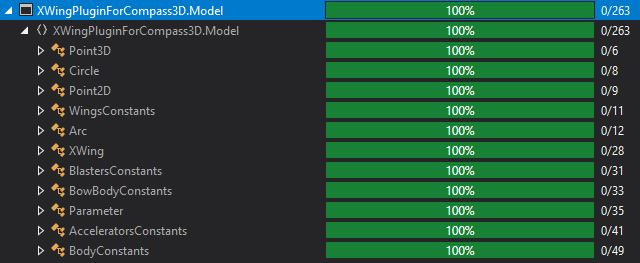
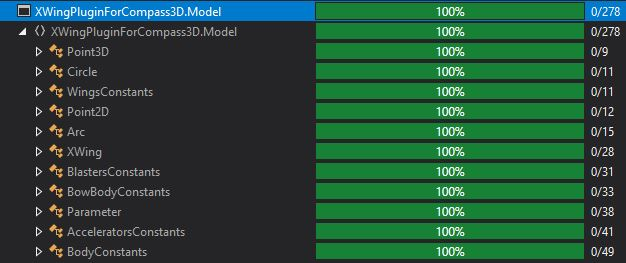
Поправлены тесты для классов XWing и Parameter, везде добавлены и проверены комментарии.

diff --git a/src/XWingPluginForCompass3D/XWingPluginForCompass3D.UnitTests/CheckingObjectEquality.cs b/src/XWingPluginForCompass3D/XWingPluginForCompass3D.UnitTests/CheckingObjectEquality.cs
@@ -1,12 +1,21 @@
-using System.Collections.Generic;
-using XWingPluginForCompass3D.Model;
+using XWingPluginForCompass3D.Model;
 
 namespace XWingPluginForCompass3D.UnitTests
 {
-	// TODO: XML
-	// TODO: для класса Point2D можно реализовать интерфейс IEquatable  ИСПРАВИЛ
-	public class CheckingObjectEquality
+    /// <summary>
+    /// Класс проверки равенства объектов класса.
+    /// </summary>
+    // TODO: XML    ИСПРАВИЛ
+    // TODO: для класса Point2D можно реализовать интерфейс IEquatable  ИСПРАВИЛ
+    public class CheckingObjectEquality
     {
+        /// <summary>
+        /// Сравнение трехмерных массивов класса Point2D.
+        /// </summary>
+        /// <param name="expected">Сравниваемый объект.</param>
+        /// <param name="actual">Текущий объект.</param>
+        /// <returns>Возвращает true, если элементы равны,
+        /// false - в обратном случае.</returns>
         public bool CheckEqual(Point2D[,,] expected, Point2D[,,] actual)
         {
             for (var i = 0; i < expected.GetLength(0); i++)
@@ -26,6 +35,13 @@ namespace XWingPluginForCompass3D.UnitTests
             return true;
         }
 
+        /// <summary>
+        /// Сравнение одномерных массивов класса Point3D.
+        /// </summary>
+        /// <param name="expected">Сравниваемый объект.</param>
+        /// <param name="actual">Текущий объект.</param>
+        /// <returns>Возвращает true, если элементы равны,
+        /// false - в обратном случае.</returns>
         public bool CheckEqual(Point3D[] expected, Point3D[] actual)
         {
             for (var i = 0; i < expected.GetLength(0); i++)
@@ -38,14 +54,21 @@ namespace XWingPluginForCompass3D.UnitTests
 
             return true;
         }
-        
-        public bool CheckEqual(Circle[,] excepted, Circle[,] actual)
+
+        /// <summary>
+        /// Сравнение двумерных массивов класса Circle.
+        /// </summary>
+        /// <param name="expected">Сравниваемый объект.</param>
+        /// <param name="actual">Текущий объект.</param>
+        /// <returns>Возвращает true, если элементы равны,
+        /// false - в обратном случае.</returns>
+        public bool CheckEqual(Circle[,] expected, Circle[,] actual)
         {
-            for (var i = 0; i < excepted.GetLength(0); i++)
+            for (var i = 0; i < expected.GetLength(0); i++)
             {
-                for (var j = 0; j < excepted.GetLength(1); j++)
+                for (var j = 0; j < expected.GetLength(1); j++)
                 {
-                    if (!actual[i, j].Equals(excepted[i, j]))
+                    if (!actual[i, j].Equals(expected[i, j]))
                     {
                         return false;
                     }
@@ -55,30 +78,23 @@ namespace XWingPluginForCompass3D.UnitTests
             return true;
         }
 
-        public bool CheckEqual(Arc[,] excepted, Arc[,] actual)
+        /// <summary>
+        /// Сравнение двумерных массивов класса Arc.
+        /// </summary>
+        /// <param name="expected">Сравниваемый объект.</param>
+        /// <param name="actual">Текущий объект.</param>
+        /// <returns>Возвращает true, если элементы равны,
+        /// false - в обратном случае.</returns>
+        public bool CheckEqual(Arc[,] expected, Arc[,] actual)
         {
-            for (var i = 0; i < excepted.GetLength(0); i++)
+            for (var i = 0; i < expected.GetLength(0); i++)
             {
-                for (var j = 0; j < excepted.GetLength(1); j++)
+                for (var j = 0; j < expected.GetLength(1); j++)
                 {
-                    if (!actual[i, j].Equals(excepted[i, j]))
+                    if (!actual[i, j].Equals(expected[i, j]))
                     {
                         return false;
                     }
-                }
-            }
-
-            return true;
-        }
-
-        public bool CheckEqual(Dictionary<XWingParameterType, Parameter> excepted, 
-            Dictionary<XWingParameterType, Parameter> actual)
-        {
-            foreach (var key in excepted.Keys)
-            {
-                if (excepted[key].Value != actual[key].Value)
-                {
-                    return false;
                 }
             }
 

diff --git a/src/XWingPluginForCompass3D/XWingPluginForCompass3D.UnitTests/TestXWing.cs b/src/XWingPluginForCompass3D/XWingPluginForCompass3D.UnitTests/TestXWing.cs
@@ -4,12 +4,21 @@ using System.Collections.Generic;
 
 namespace XWingPluginForCompass3D.UnitTests
 {
+    /// <summary>
+    /// Класс тестирования полей класса звездолета.
+    /// </summary>
     [TestFixture]
     public class TestXWing
     {
+        /// <summary>
+        /// Объект класса звездолета.
+        /// </summary>
         private readonly XWing _xWing = new XWing();
-        
-        [Test(Description = "Позитивный тест геттера ErrorList")]
+
+        /// <summary>
+        /// Позитивный тест геттера ErrorList.
+        /// </summary>
+        [Test(Description = "Позитивный тест геттера ErrorList.")]
         public void TestErrorListGet_CorrectValue()
         {
             var expected = new Dictionary<XWingParameterType, string>();
@@ -17,10 +26,12 @@ namespace XWingPluginForCompass3D.UnitTests
             Assert.AreEqual(expected,actual);
         }
 
-        [Test(Description = "Позитивный тест геттера Parameters")]
+        /// <summary>
+        /// Позитивный тест геттера Parameters.
+        /// </summary>
+        [Test(Description = "Позитивный тест геттера Parameters.")]
         public void TestParametersGet_CorrectValue()
         {
-            var check = new CheckingObjectEquality();
             var expected = new Dictionary<XWingParameterType, Parameter>()
             {
                 { XWingParameterType.BodyLength,
@@ -43,10 +54,13 @@ namespace XWingPluginForCompass3D.UnitTests
                         XWingParameterType.AcceleratorNozzleLength, _xWing.ErrorList)},
             };
             var actual = _xWing.Parameters;
-            Assert.IsTrue(check.CheckEqual(expected, actual));
+            Assert.AreEqual(expected, actual);
         }
 
-        [Test(Description = "Позитивный тест геттера ErrorList")]
+        /// <summary>
+        /// Позитивный тест сеттера Parameters.
+        /// </summary>
+        [Test(Description = "Позитивный тест сеттера Parameters.")]
         public void TestParametersSet_CorrectValue()
         {
             const double bodyLength = 300;
@@ -62,7 +76,10 @@ namespace XWingPluginForCompass3D.UnitTests
             Assert.AreEqual(expected, actual);
         }
 
-        [Test(Description = "Негативный тест геттера ErrorList")]
+        /// <summary>
+        /// Негативный тест сеттера Parameters.
+        /// </summary>
+        [Test(Description = "Негативный тест сеттера Parameters.")]
         public void TestParametersSet_IncorrectValue()
         {
             const double bodyLength = 400;

diff --git a/src/XWingPluginForCompass3D/XWingPluginForCompass3D.UnitTests/TestArc.cs b/src/XWingPluginForCompass3D/XWingPluginForCompass3D.UnitTests/TestArc.cs
@@ -3,11 +3,17 @@ using NUnit.Framework;
 
 namespace XWingPluginForCompass3D.UnitTests
 {
+    /// <summary>
+    /// Класс тестирования полей класса дуги.
+    /// </summary>
     [TestFixture]
-    // TODO: XML
+    // TODO: XML    ИСПРАВИЛ
     public class TestArc
     {
-        [Test(Description = "Позитивный тест геттера StartPoint")]
+        /// <summary>
+        /// Позитивный тест геттера StartPoint.
+        /// </summary>
+        [Test(Description = "Позитивный тест геттера StartPoint.")]
         public void TestStartPointGet_CorrectValue()
         {
             var value = new Point2D(-5,0);
@@ -17,7 +23,10 @@ namespace XWingPluginForCompass3D.UnitTests
             Assert.AreEqual(value, actual);
         }
 
-        [Test(Description = "Позитивный тест геттера EndPoint")]
+        /// <summary>
+        /// Позитивный тест геттера EndPoint.
+        /// </summary>
+        [Test(Description = "Позитивный тест геттера EndPoint.")]
         public void TestEndPointGet_CorrectValue()
         {
             var value = new Point2D(5, 0);
@@ -27,10 +36,13 @@ namespace XWingPluginForCompass3D.UnitTests
             Assert.AreEqual(value, actual);
         }
 
-        [Test(Description = "Позитивный тест геттера Direction")]
+        /// <summary>
+        /// Позитивный тест геттера Direction.
+        /// </summary>
+        [Test(Description = "Позитивный тест геттера Direction.")]
         public void TestDirectionGet_CorrectValue()
         {
-            short value = 1;
+            const short value = 1;
             var arc = new Arc(new Point2D(0, 0), 5,
                 new Point2D(-5, 0), new Point2D(5, 0), value);
             var actual = arc.Direction;

diff --git a/src/XWingPluginForCompass3D/XWingPluginForCompass3D.UnitTests/TestParameter.cs b/src/XWingPluginForCompass3D/XWingPluginForCompass3D.UnitTests/TestParameter.cs
@@ -4,11 +4,16 @@ using NUnit.Framework;
 
 namespace XWingPluginForCompass3D.UnitTests
 {
+    /// <summary>
+    /// Класс тестирования полей класса параметра.
+    /// </summary>
     [TestFixture]
     public class TestParameter
     {
-
-        [Test(Description = "Позитивный тест геттера Value")]
+        /// <summary>
+        /// Позитивный тест геттера Value.
+        /// </summary>
+        [Test(Description = "Позитивный тест геттера Value.")]
         public void TestValueGet_CorrectValue()
         {
             var parameter = new Parameter(10, 1, 20,
@@ -19,7 +24,10 @@ namespace XWingPluginForCompass3D.UnitTests
             Assert.AreEqual(expected, actual);
         }
 
-        [Test(Description = "Негативный тест геттера Value, Value < MinValue")]
+        /// <summary>
+        /// Негативный тест геттера Value, когда Value < MinValue.
+        /// </summary>
+        [Test(Description = "Негативный тест геттера Value, когда Value < MinValue.")]
         public void TestValueMixValueGet_IncorrectValue()
         {
             var parameter = new Parameter(-10, 1, 20,
@@ -30,7 +38,10 @@ namespace XWingPluginForCompass3D.UnitTests
             Assert.AreEqual(expected, actual);
         }
 
-        [Test(Description = "Негативный тест геттера Value, Value < MinValue")]
+        /// <summary>
+        /// Негативный тест геттера Value, когда Value > MaxValue.
+        /// </summary>
+        [Test(Description = "Негативный тест геттера Value, когда Value > MaxValue.")]
         public void TestValueMaxValueGet_IncorrectValue()
         {
             var parameter = new Parameter(25, 1, 20,

diff --git a/src/XWingPluginForCompass3D/XWingPluginForCompass3D.Model/Parameter.cs b/src/XWingPluginForCompass3D/XWingPluginForCompass3D.Model/Parameter.cs
@@ -1,11 +1,12 @@
-using System.Collections.Generic;
+using System;
+using System.Collections.Generic;
 
 namespace XWingPluginForCompass3D.Model
 {
     /// <summary>
     /// Класс параметра.
     /// </summary>
-    public class Parameter
+    public class Parameter: IEquatable<Parameter>
     {
         /// <summary>
         /// Значение параметра.
@@ -113,6 +114,24 @@ namespace XWingPluginForCompass3D.Model
             if (!(value > MaxValue)) return true;
             ErrorList.Add(ParameterType, MaxErrorMessage);
             return false;
+        }
+
+        /// <summary>
+        /// Проверка на равенство объектов класса.
+        /// </summary>
+        /// <param name="expected">Сравниваемый объект.</param>
+        /// <returns>Возвращает true, если элементы равны,
+        /// false - в обратном случае.</returns>
+        public bool Equals(Parameter expected)
+        {
+            return expected != null &&
+                   expected.Value.Equals(Value) &&
+                   expected.MinValue.Equals(MinValue) &&
+                   expected.MaxValue.Equals(MaxValue) &&
+                   expected.MinErrorMessage.Equals(MinErrorMessage) &&
+                   expected.MaxErrorMessage.Equals(MaxErrorMessage) &&
+                   expected.ErrorList.Equals(ErrorList) &&
+                   expected.ParameterType.Equals(ParameterType);
         }
     }
 }

diff --git a/src/XWingPluginForCompass3D/XWingPluginForCompass3D.UnitTests/TestCircle.cs b/src/XWingPluginForCompass3D/XWingPluginForCompass3D.UnitTests/TestCircle.cs
@@ -3,10 +3,16 @@ using NUnit.Framework;
 
 namespace XWingPluginForCompass3D.UnitTests
 {
+    /// <summary>
+    /// Класс тестирования полей класса круга.
+    /// </summary>
     [TestFixture]
     public class TestCircle
     {
-        [Test(Description = "Позитивный тест геттера Center")]
+        /// <summary>
+        /// Позитивный тест геттера Center.
+        /// </summary>
+        [Test(Description = "Позитивный тест геттера Center.")]
         public void TestCenterGet_CorrectValue()
         {
             var value = new Point2D(0, 0);
@@ -15,7 +21,10 @@ namespace XWingPluginForCompass3D.UnitTests
             Assert.AreEqual(value,actual);
         }
 
-        [Test(Description = "Позитивный тест геттера Radius")]
+        /// <summary>
+        /// Позитивный тест геттера Radius.
+        /// </summary>
+        [Test(Description = "Позитивный тест геттера Radius.")]
         public void TestRadiusGet_CorrectValue()
         {
             const int value = 10;

diff --git a/src/XWingPluginForCompass3D/XWingPluginForCompass3D.UnitTests/TestPoint2D.cs b/src/XWingPluginForCompass3D/XWingPluginForCompass3D.UnitTests/TestPoint2D.cs
@@ -3,10 +3,16 @@ using NUnit.Framework;
 
 namespace XWingPluginForCompass3D.UnitTests
 {
+    /// <summary>
+    /// Класс тестирования полей класса 2D-точки.
+    /// </summary>
     [TestFixture]
     public class TestPoint2D
     {
-        [Test(Description = "Позитивный тест геттера X")]
+        /// <summary>
+        /// Позитивный тест геттера X.
+        /// </summary>
+        [Test(Description = "Позитивный тест геттера X.")]
         public void TestXGet_CorrectValue()
         {
             const int value = 10;
@@ -15,7 +21,10 @@ namespace XWingPluginForCompass3D.UnitTests
             Assert.AreEqual(value,actual);
         }
 
-        [Test(Description = "Позитивный тест геттера Y")]
+        /// <summary>
+        /// Позитивный тест геттера Y.
+        /// </summary>
+        [Test(Description = "Позитивный тест геттера Y.")]
         public void TestYGet_CorrectValue()
         {
             const int value = 10;

diff --git a/src/XWingPluginForCompass3D/XWingPluginForCompass3D.UnitTests/TestPoint3D.cs b/src/XWingPluginForCompass3D/XWingPluginForCompass3D.UnitTests/TestPoint3D.cs
@@ -3,10 +3,16 @@ using NUnit.Framework;
 
 namespace XWingPluginForCompass3D.UnitTests
 {
+    /// <summary>
+    /// Класс тестирования полей класса 3D-точки.
+    /// </summary>
     [TestFixture]
     public class TestPoint3D
     {
-        [Test(Description = "Позитивный тест геттера Z")]
+        /// <summary>
+        /// Позитивный тест геттера Z.
+        /// </summary>
+        [Test(Description = "Позитивный тест геттера Z.")]
         public void TestZGet_CorrectValue()
         {
             const int value = 10;

diff --git a/src/XWingPluginForCompass3D/XWingPluginForCompass3D.Model/XWing.cs b/src/XWingPluginForCompass3D/XWingPluginForCompass3D.Model/XWing.cs
@@ -1,4 +1,5 @@
-using System.Collections.Generic;
+using System;
+using System.Collections.Generic;
 
 namespace XWingPluginForCompass3D.Model
 {
